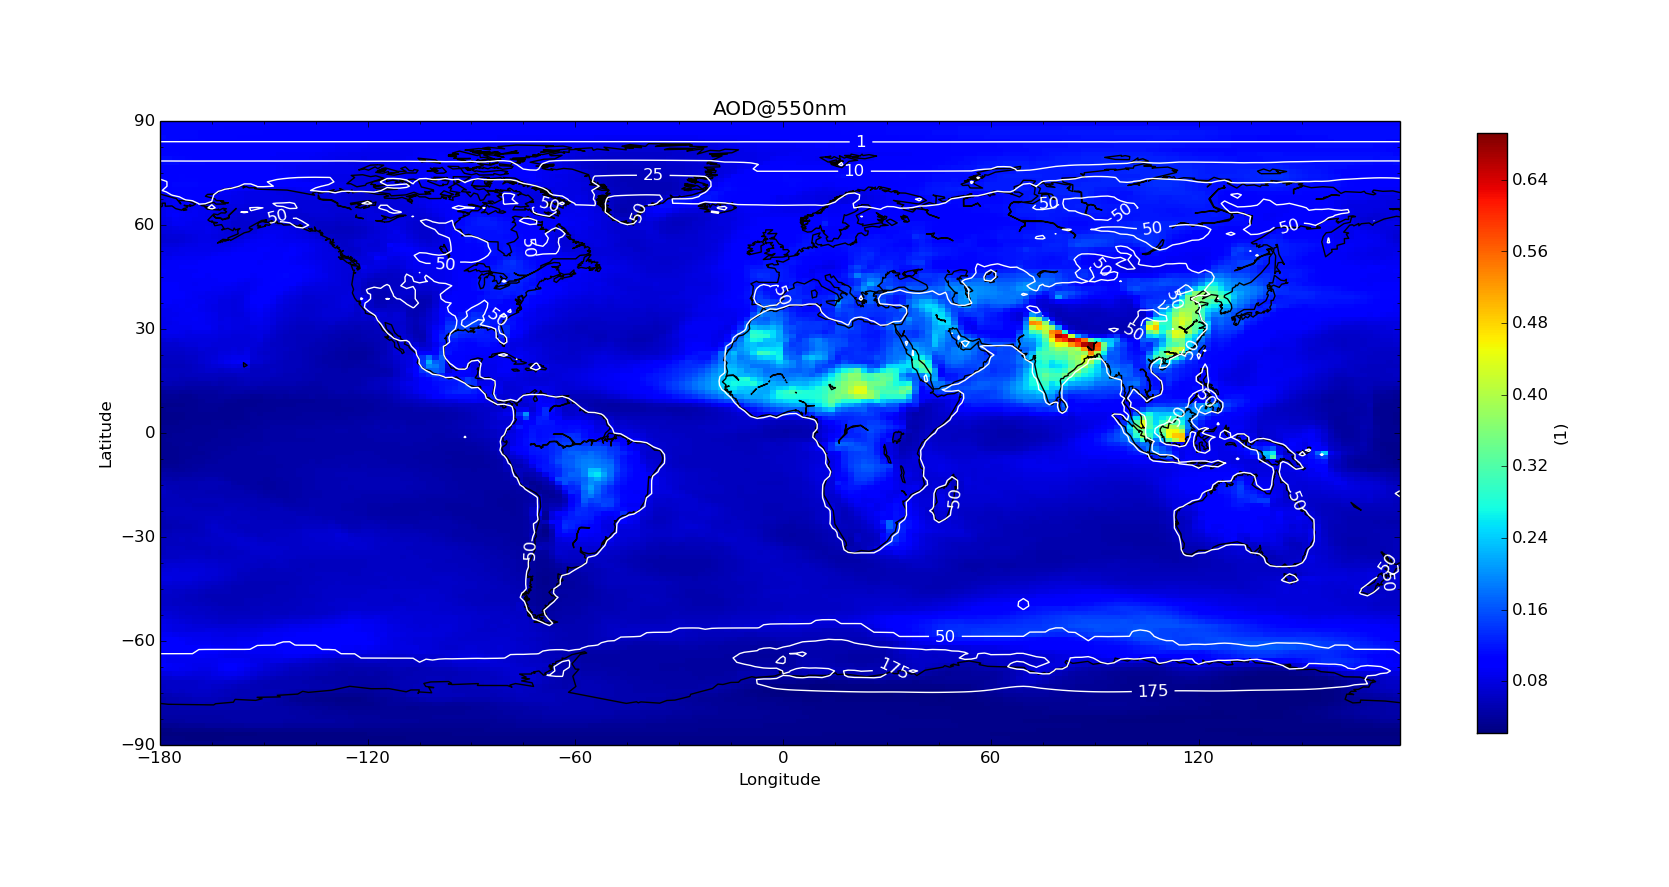
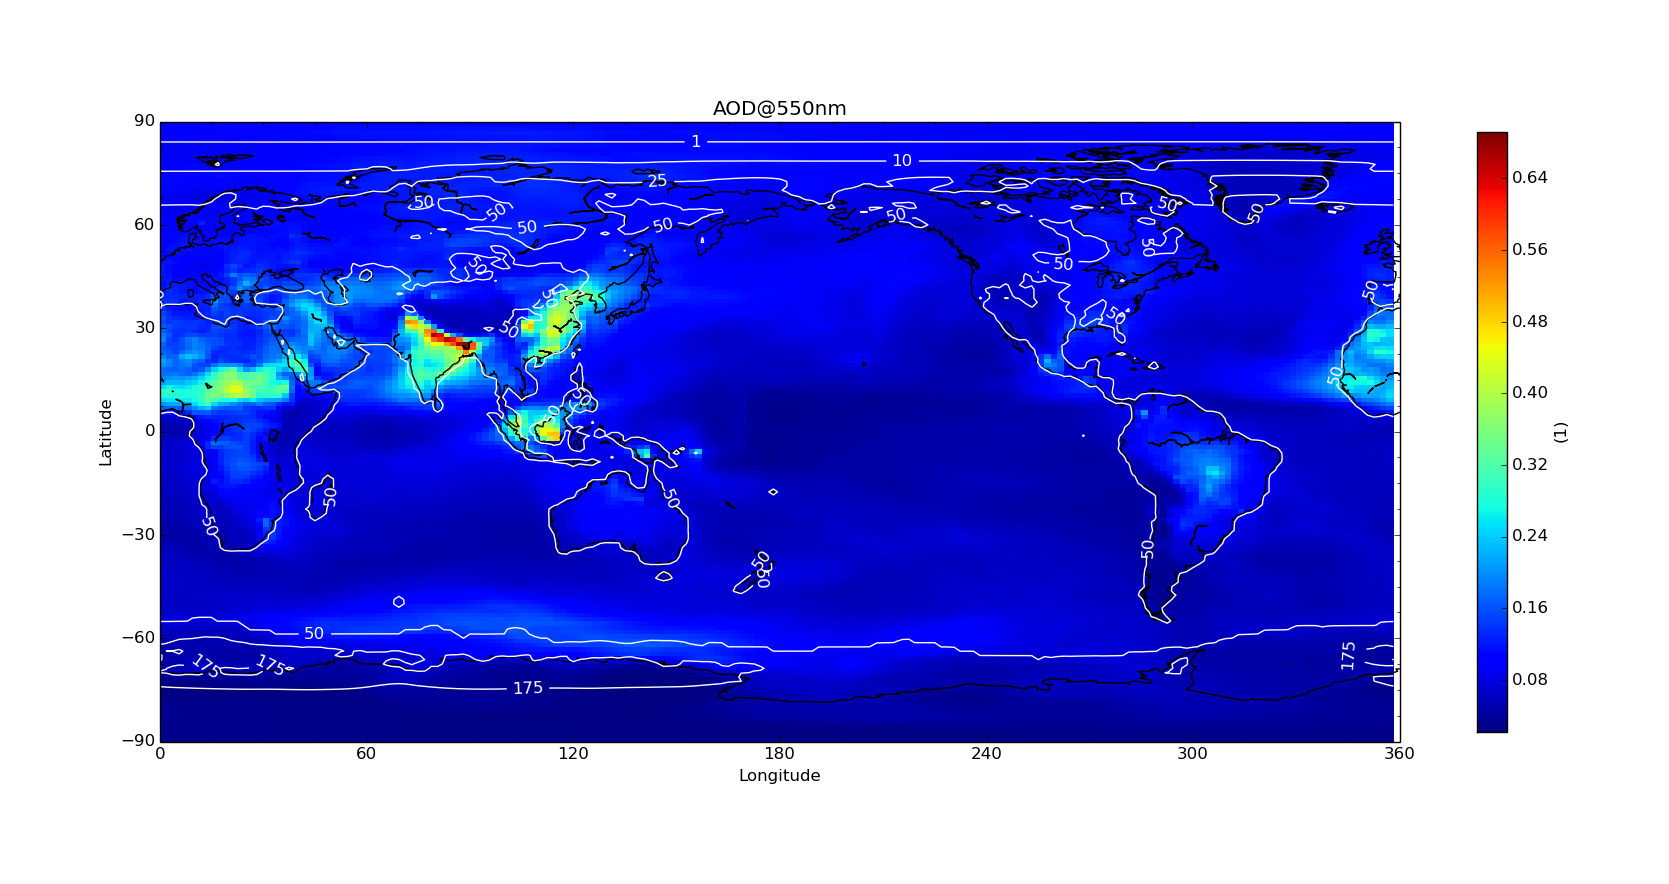
Documentation update for the overlay plotting with plot wrapping.

diff --git a/doc/overlay_examples.rst b/doc/overlay_examples.rst
@@ -23,7 +23,7 @@ Contour over heatmap
 
 ::
 
-  cis plot od550aer:HadGEM_od550aer-subset.nc:type=heatmap,cmap=binary rsutcs:HadGEM_rsutcs-subset.nc:type=contour,cmap=jet,contlevels=[1,10,25,50,175] --type overlay --plotwidth 20 --plotheight 15 --cbarscale 0.5 -o overlay2.png
+  cis plot od550aer:HadGEM_od550aer-subset.nc:type=heatmap,cmap=binary rsutcs:HadGEM_rsutcs-subset.nc:type=contour,cmap=jet,contlevels=[1,10,25,50,175] --type overlay --xmin -180 --xmax 180 --plotwidth 20 --plotheight 15 --cbarscale 0.5 -o overlay2.png
 
 
 .. image:: img/overlay2.png
@@ -34,7 +34,7 @@ Filled contour with transparency on NASA Blue Marble
 
 ::
 
-  cis plot od550aer:HadGEM_od550aer-subset.nc:cmap=Reds,type=contourf,transparency=0.5,cmin=0.15 --type overlay --plotwidth 20 --plotheight 15 --cbarscale 0.5 --nasabluemarble
+  cis plot od550aer:HadGEM_od550aer-subset.nc:cmap=Reds,type=contourf,transparency=0.5,cmin=0.15 --type overlay --xmin -180 --xmax 180 --plotwidth 20 --plotheight 15 --cbarscale 0.5 --nasabluemarble
 
 
 .. image:: img/overlay3.png
